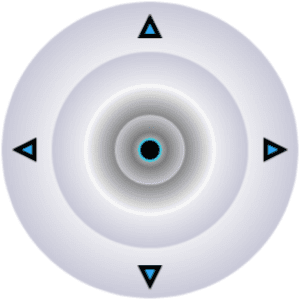
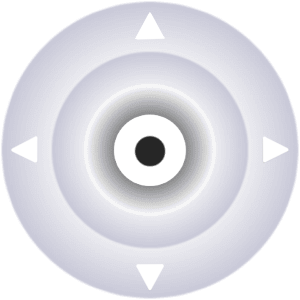
v2 update

diff --git a/index.html b/index.html
@@ -26,17 +26,19 @@
     <div id="setting-box" class="setting-box" autocomplete="off">
       <img src="img/shamlogo.png" alt="Shamaze3D Logo" srcset="" />
       <h2>Game Settings</h2>
-      <hr>
     <div class="settingcard">
-      <div class="toggle">
-      <p>Toggle the joystick position</p>
+      <div class="stncard">
+      <h3>Toggle the joystick position</h3>
       <label class="switch">
         <input type="checkbox" />
         <span class="slider round"></span>
       </label>
     </div>
+    <div class="stncard">
+      <h3>How to Play</h3>
+      <p>Use the onscreen joystick, or use the keyboard arrow keys to navigate the ball out of the maze.</p>
     </div>
-      <hr>
+    </div>
       <p>stay tuned for updates ☺ </p>
       <span class="close-btn" onclick="closeSetting()">X</span>
     </div>
@@ -47,9 +49,9 @@
         <div id="stick1"></div>
       </div>
     </div>
-    <img id="ball2" src="img/ball.png" style="display: none" />
+    <img id="ball" src="img/ball.png" style="display: none" />
     <img id="concrete" src="img/concrete.jpg" style="display: none" />
-    <img id="brick3" src="img/Brick.png" style="display: none" />
+    <img id="brick" src="img/Brick.png" style="display: none" />
     <audio id="hit-sound" src="assets/ball.ogg"></audio>
     <script src="js/Box2dWeb.min.js"></script>
     <script src="js/Three.js"></script>
@@ -58,11 +60,11 @@
     <script src="js/maze.js"></script>
     <script>
       var ball2Image = new Image();
-      ball2Image.src = document.getElementById("ball2").src;
+      ball2Image.src = document.getElementById("ball").src;
       var concreteImage = new Image();
       concreteImage.src = document.getElementById("concrete").src;
       var brick3Image = new Image();
-      brick3Image.src = document.getElementById("brick3").src;
+      brick3Image.src = document.getElementById("brick").src;
       var ironTexture = new THREE.Texture(ball2Image);
       var planeTexture = new THREE.Texture(concreteImage);
       var brickTexture = new THREE.Texture(brick3Image);
@@ -212,7 +214,7 @@
           (camera.position.z += 0.1 * (5 - camera.position.z)),
           (light.position.x = camera.position.x),
           (light.position.y = camera.position.y),
-          (light.position.z = camera.position.z - 3.7);
+          (light.position.z = camera.position.z - 3.6);
       }
       function gameLoop() {
         switch (gameState) {
@@ -232,7 +234,7 @@
             (light.intensity += 0.1 * (1 - light.intensity)),
               renderer.render(scene, camera),
               Math.abs(light.intensity - 1) < 0.05 &&
-                ((light.intensity = 1.3), (gameState = "play"));
+                ((light.intensity = 1.2), (gameState = "play"));
             break;
           case "play":
             updatePhysicsWorld(),

diff --git a/css/style.css b/css/style.css
@@ -177,10 +177,10 @@ body {
   margin: 0 auto;
   transform: scale(0.98);
   filter: blur(calc(var(--card-height) / 6));
-  background: #000000de;
+  background: #000000e8;
   opacity: 1;
   transition: opacity 0.5s;
-  animation: spin 5s linear infinite;
+  animation: spin 3s linear infinite;
 }
 @keyframes spin {
   0% {
@@ -201,9 +201,8 @@ body {
   color: #160fff;
   text-decoration: underline;
 }
-.setting-box p {
-  font-size: 28px;
-  margin: 0;
+.setting-box p{
+  font-size: 24px;
 }
 .close-btn {
   position: absolute;
@@ -214,24 +213,33 @@ body {
 }
 .settingcard {
   display: inline-block;
-  margin: 20px;
-  padding: 20px;
+  margin: 10px;
+  padding: 10px;
   background-color: #5a5a5a;
   border-radius: 30px;
   width: 80%;
   height: 50%;
 }
-.toggle {
+.stncard {
   background-color: #191c29;
   border-radius: 30px;
-  padding: 15px 0;
+  padding: 5px 20px;
+  margin-bottom: 10px;
+}
+.stncard p{
+  color: #fff;
+  font-size: 22px;
+  font-family: 'Courier New', Courier, monospace;
+}
+.stncard h3{
+  font-size: 28px;
 }
 .switch {
   position: relative;
   display: inline-block;
   width: 155px;
   height: 50px;
-  margin-top: 15px;
+  margin-bottom: 15px;
 }
 .switch input {
   opacity: 0;
